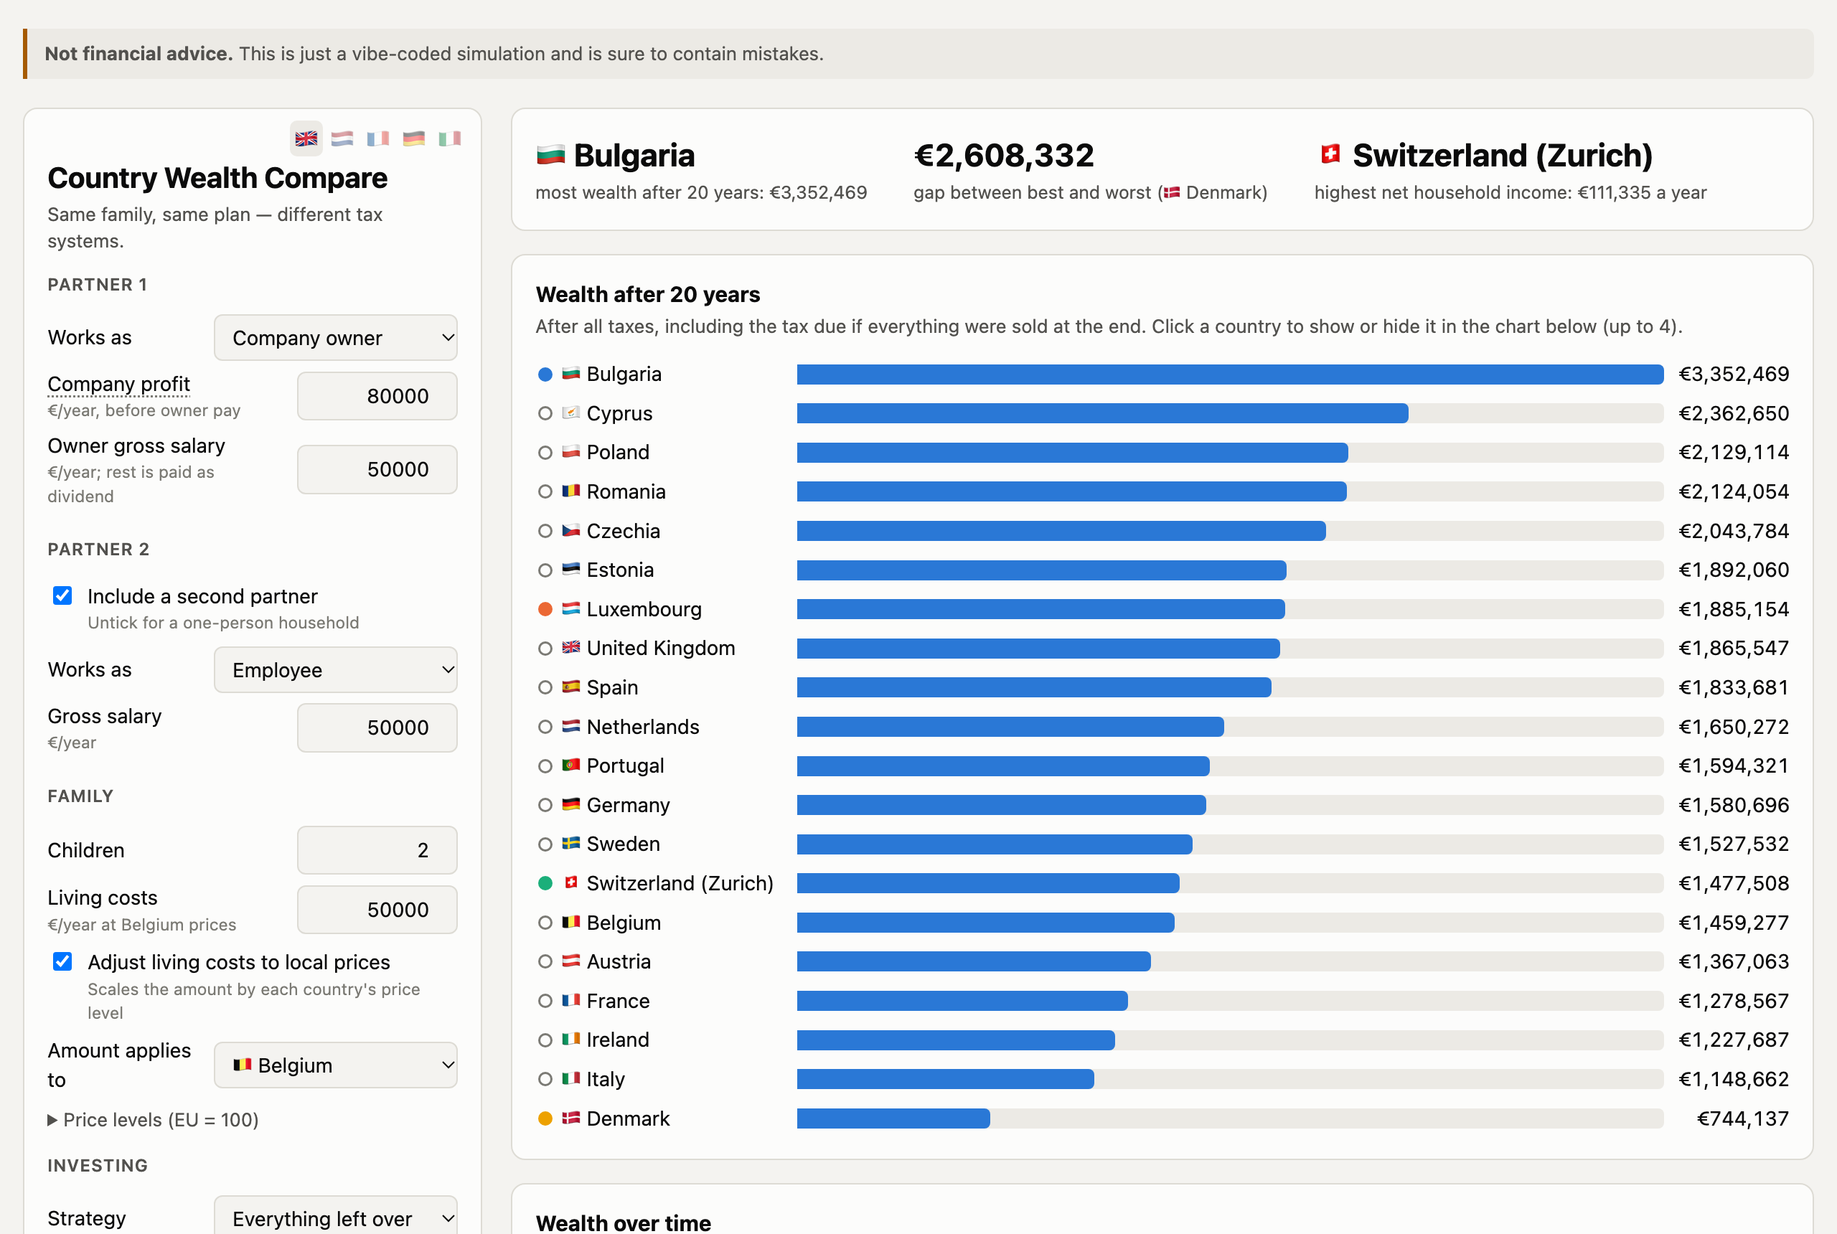
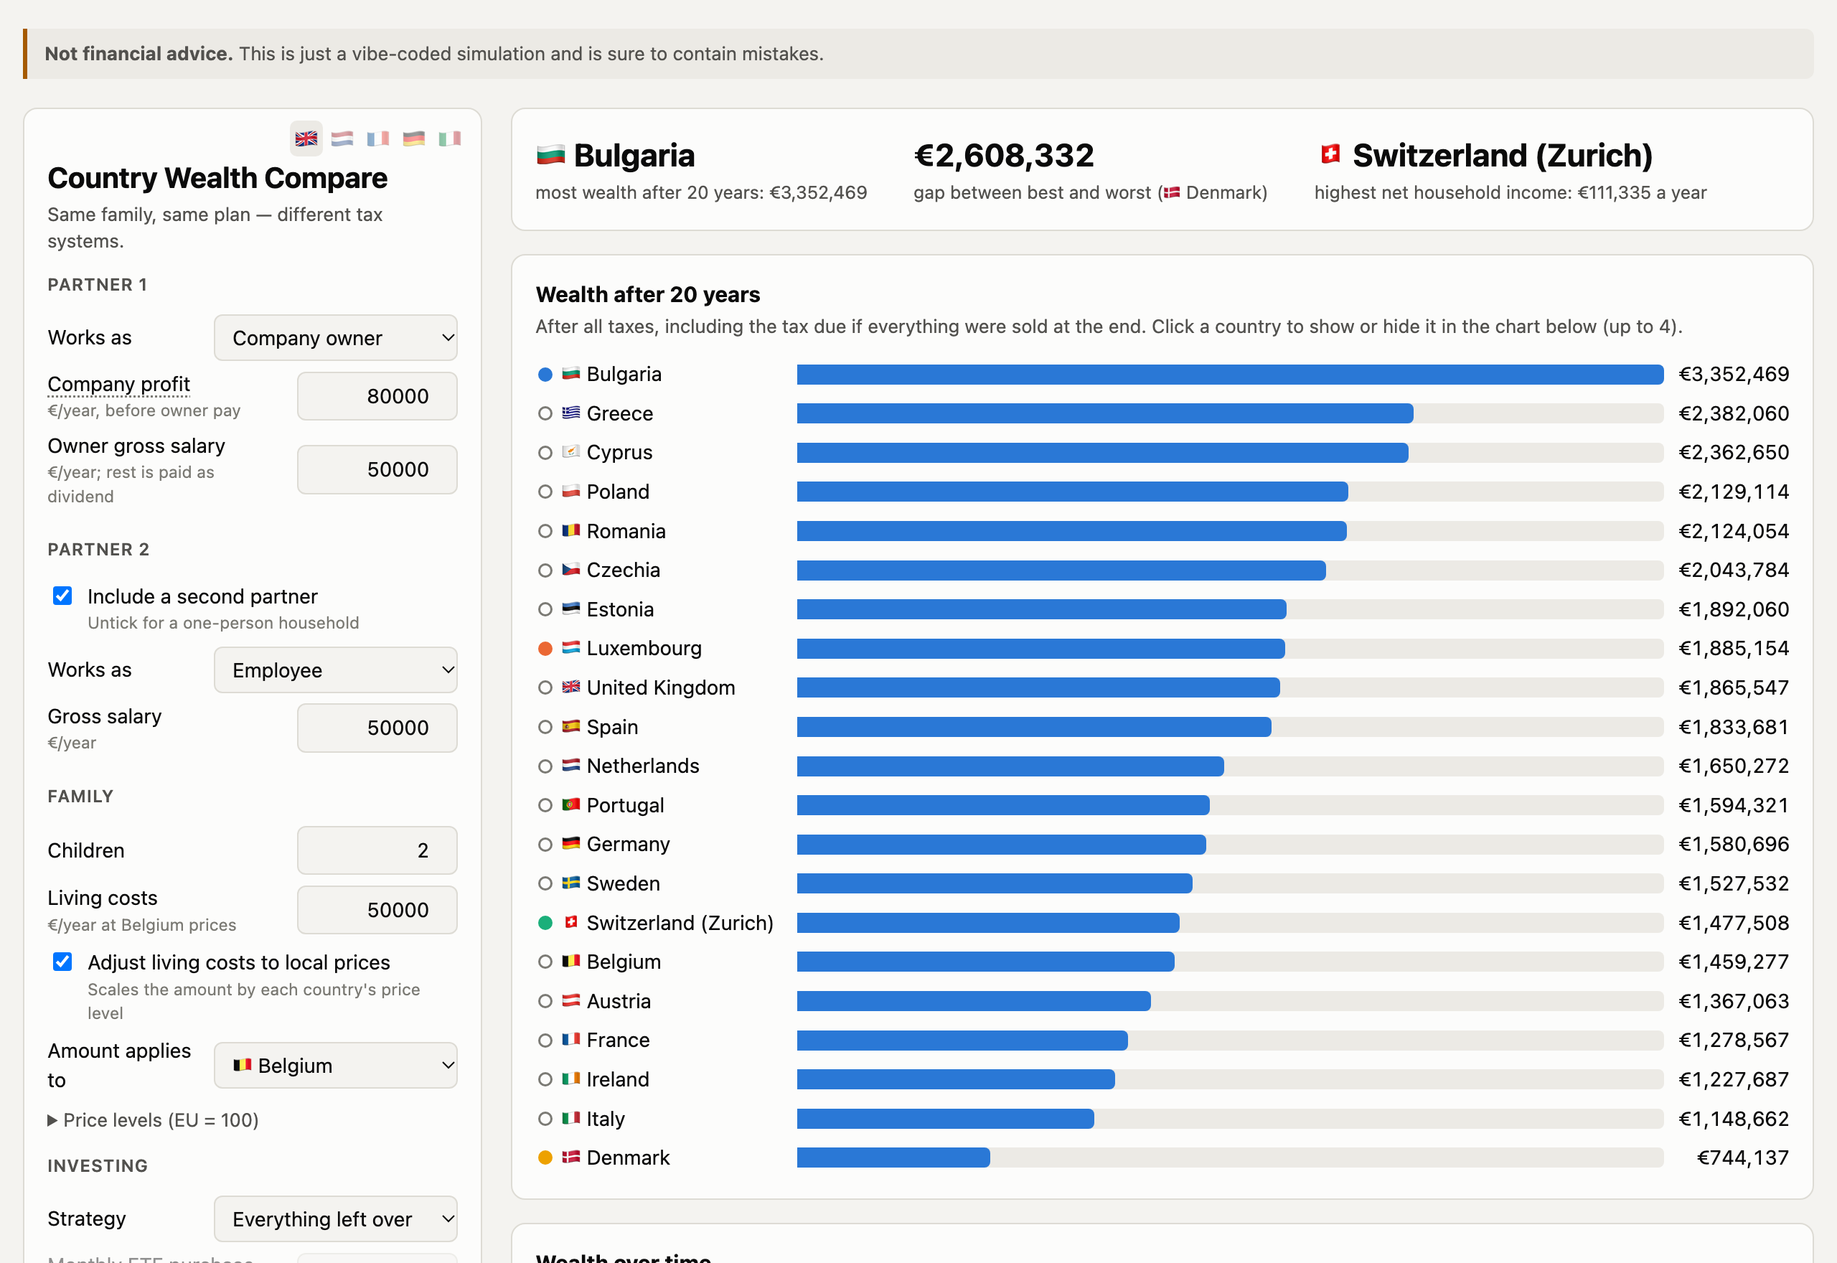
Add Greece

diff --git a/country-compare.html b/country-compare.html
@@ -685,6 +685,13 @@
       'Dividenden tegen 16 % (vanaf 2026) plus een ziektebijdrage begrensd op 10 % van 24 minimumlonen.',
       'ETF: 3 % op meerwaarden voor beleggingen die langer dan een jaar worden aangehouden via een Roemeense broker (6 % bij minder dan een jaar, niet gemodelleerd), plus de begrensde ziektebijdrage als dividenden het plafond nog niet hebben bereikt. Via een buitenlandse broker is het tarief 16 %.',
     ],
+    GR: [
+      "Vennootschapsbelasting 22 %, dividenden belast aan 5 %.",
+      "De eigenaar wordt betaald als zaakvoerder van de eigen vennootschap en belast als werknemer. Verzekerd in het stelsel voor zelfstandigen in de laagste bijdragecategorie: ongeveer € 3.000 per jaar, ongeacht het loon. Een hogere categorie kost meer en bouwt een hoger pensioen op.",
+      "Inkomstenbelasting volgens de schaal van 2026 (9 % tot 44 %), met lagere tarieven op de eerste € 30.000 en een grotere belastingvermindering per kind ten laste. Er wordt aangenomen dat beide ouders de kindtarieven krijgen. De kindtarieven en de bedragen van de vermindering konden niet worden nagekeken in de wettekst.",
+      "De kinderbijslag is inkomensafhankelijk en wordt bij deze inkomens op nul gezet.",
+      "ETF: meerwaarden op UCITS-fondsen gevestigd in de EU zijn belastingvrij voor particulieren. Fondsen van buiten de EU/EER worden belast aan 15 %.",
+    ],
   } };
 })(typeof window !== 'undefined' ? window : globalThis);
 
@@ -989,7 +996,14 @@
       "Salaires : 35 % de cotisations salariales (pension + santé), 10 % d'impôt sur le revenu, 2,25 % de cotisation patronale.",
       "Dividendes à 16 % (à partir de 2026) plus une cotisation santé plafonnée à 10 % de 24 salaires minimums.",
       "ETF : 3 % sur les plus-values pour les titres détenus plus d'un an via un courtier roumain (6 % en dessous d'un an, non modélisé), plus la cotisation santé plafonnée si les dividendes n'ont pas déjà atteint le plafond. Via un courtier étranger, le taux est de 16 %."
-    ]
+    ],
+    GR: [
+      "Impôt des sociétés de 22 %, dividendes imposés à 5 %.",
+      "Le dirigeant est rémunéré comme gérant de sa propre société et imposé comme un salarié. Il est assuré au régime des indépendants dans la catégorie de cotisation la plus basse : environ 3 000 € par an, quel que soit le salaire. Une catégorie plus élevée coûte plus cher et constitue une pension plus importante.",
+      "Impôt sur le revenu selon le barème 2026 (9 % à 44 %), avec des taux réduits sur les premiers 30 000 € et une réduction d'impôt plus élevée par enfant à charge. On suppose que les deux parents bénéficient des taux pour enfants. Les taux pour enfants et les montants de la réduction n'ont pas pu être vérifiés dans le texte de loi.",
+      "Les allocations familiales dépendent des revenus et sont supposées nulles à ces niveaux de revenus.",
+      "ETF : les plus-values sur les fonds UCITS domiciliés dans l'UE sont exonérées pour les particuliers. Les fonds hors UE/EEE sont imposés à 15 %.",
+    ],
   } };
 })(typeof window !== 'undefined' ? window : globalThis);
 
@@ -1294,7 +1308,14 @@
       'Gehälter: 35 % Arbeitnehmerbeiträge (Rente + Gesundheit), 10 % Einkommensteuer, 2,25 % Arbeitgeberbeitrag.',
       'Dividenden zu 16 % (ab 2026) plus ein Krankenversicherungsbeitrag, gedeckelt bei 10 % von 24 Mindestlöhnen.',
       'ETF: 3 % auf Gewinne bei einer Haltedauer von über einem Jahr über einen rumänischen Broker (6 % unter einem Jahr, nicht modelliert), dazu der gedeckelte Krankenversicherungsbeitrag, falls Dividenden die Obergrenze nicht schon erreicht haben. Über einen ausländischen Broker beträgt der Satz 16 %.'
-    ]
+    ],
+    GR: [
+      "Körperschaftsteuer 22 %, Dividenden werden mit 5 % besteuert.",
+      "Der Inhaber wird als Geschäftsführer der eigenen Gesellschaft bezahlt und wie ein Arbeitnehmer besteuert. Versichert im System für Selbständige in der niedrigsten Beitragsklasse: rund 3.000 € pro Jahr, unabhängig vom Gehalt. Eine höhere Klasse kostet mehr und führt zu einer höheren Rente.",
+      "Einkommensteuer nach dem Tarif 2026 (9 % bis 44 %), mit niedrigeren Sätzen auf die ersten 30.000 € und einer höheren Steuerermäßigung je unterhaltsberechtigtem Kind. Es wird angenommen, dass beide Elternteile die Kindersätze erhalten. Die Kindersätze und die Beträge der Ermäßigung konnten nicht am Gesetzestext überprüft werden.",
+      "Das Kindergeld ist einkommensabhängig und wird bei diesen Einkommen mit null angesetzt.",
+      "ETF: Gewinne aus in der EU aufgelegten UCITS-Fonds sind für Privatanleger steuerfrei. Fonds von außerhalb der EU/des EWR werden mit 15 % besteuert.",
+    ],
   } };
 })(typeof window !== 'undefined' ? window : globalThis);
 
@@ -1599,7 +1620,14 @@
       "Stipendi: 35 % di contributi a carico del lavoratore (pensione + sanità), 10 % di imposta sul reddito, 2,25 % di contributo a carico del datore di lavoro.",
       "Dividendi al 16 % (dal 2026) più un contributo sanitario con tetto pari al 10 % di 24 salari minimi.",
       "ETF: 3 % sulle plusvalenze per i titoli detenuti da più di un anno tramite un broker rumeno (6 % sotto l'anno, non considerato nel modello), più il contributo sanitario con tetto se i dividendi non hanno già raggiunto il tetto. Tramite un broker estero l'aliquota è del 16 %."
-    ]
+    ],
+    GR: [
+      "Imposta sulle società al 22 %, dividendi tassati al 5 %.",
+      "Il titolare è pagato come amministratore della propria società e tassato come lavoratore dipendente. È assicurato nel regime dei lavoratori autonomi nella categoria contributiva più bassa: circa 3.000 € l'anno, qualunque sia lo stipendio. Una categoria più alta costa di più e matura una pensione maggiore.",
+      "Imposta sul reddito secondo la scala 2026 (dal 9 % al 44 %), con aliquote più basse sui primi 30.000 € e una riduzione d'imposta più alta per ogni figlio a carico. Si assume che entrambi i genitori abbiano diritto alle aliquote per i figli. Le aliquote per i figli e gli importi della riduzione non sono stati verificati sul testo di legge.",
+      "L'assegno per i figli dipende dal reddito e si assume pari a zero a questi livelli di reddito.",
+      "ETF: le plusvalenze sui fondi UCITS domiciliati nell'UE sono esenti per le persone fisiche. I fondi di paesi extra UE/SEE sono tassati al 15 %.",
+    ],
   } };
 })(typeof window !== 'undefined' ? window : globalThis);
 
@@ -2347,6 +2375,37 @@
     });
   }
 
+  /* ───────────── Greece ───────────── */
+  {
+    const CAP = 7761.94 * 14; // monthly ceiling, 14 salaries a year
+    const OWNER_EFKA = 250.77 * 12; // self-employed scheme, lowest category
+    // 2026 scale (law 5246/2025); the rates on the first €30k fall with the number of dependent children
+    const LOW = [[.09, .20, .26], [.09, .18, .24], [.09, .16, .22], [.09, .09, .20], [0, 0, .18]];
+    const scale = k => { const r = LOW[Math.min(k, 4)]; return [[10000, r[0]], [20000, r[1]], [30000, r[2]], [40000, .34], [60000, .39], [INF, .44]]; };
+    // tax reduction for employment income, shrinking by €20 per €1,000 of income above €12,000 (not with 5+ children)
+    const credit = (b, k) => pos([777, 900, 1120, 1340, 1580][Math.min(k, 4)] + 220 * pos(k - 4) - (k >= 5 ? 0 : .02 * pos(b - 12000)));
+    const person = (g, ee, k) => { const b = pos(g - ee); return g > 0 ? pos(BR(b, scale(k)) - credit(b, k)) : 0; };
+    C.push({
+      code: 'GR', name: 'Greece', flag: '🇬🇷',
+      corpTax: p => .22 * p,
+      employeeSS: g => ({ ee: .1337 * Math.min(g, CAP), er: .2179 * Math.min(g, CAP) }),
+      ownerSS: () => ({ ee: OWNER_EFKA, er: 0 }),
+      personalTax: h => ({
+        incomeTax: person(h.salaryA, h.eeA, h.kids) + person(h.salaryB, h.eeB, h.kids),
+        dividendTax: .05 * (h.divA + h.divB),
+        childBenefit: 0,
+      }),
+      invest: { cgt: null },
+      notes: [
+        'Corporate tax 22 %, dividends taxed at 5 %.',
+        'Owner paid as the manager of their own company, taxed as employment income. Insured in the self-employed scheme at the lowest contribution category, about €3,000 a year whatever the salary; a higher category costs more and builds a larger pension.',
+        'Income tax uses the 2026 scale (9 % to 44 %), with lower rates on the first €30k and a larger tax reduction for each dependent child. Both parents are assumed to get the child rates. The child rates and reduction amounts could not be confirmed against the law text.',
+        'Child benefit is means-tested and assumed to be zero at these incomes.',
+        'ETF: gains on EU-domiciled UCITS funds are tax-free for individuals. Funds from outside the EU/EEA are taxed at 15 %.',
+      ],
+    });
+  }
+
   /* ───────────── Romania ───────────── */
   {
     const MW = 4050; // gross minimum monthly wage, RON
@@ -2402,7 +2461,7 @@
 
   // Eurostat price level index 2024, household final consumption expenditure (EU27 = 100). National averages.
   const PLI = { BE: 116.5, NL: 116.0, DE: 108.6, FR: 111.2, LU: 132.8, ES: 90.9, PT: 87.0, IT: 97.5, IE: 138.1, UK: 124.7,
-    CH: 174.4, AT: 112.8, DK: 143.1, SE: 115.1, PL: 72.2, CZ: 88.4, EE: 100.0, BG: 59.7, CY: 92.8, RO: 63.7 };
+    CH: 174.4, AT: 112.8, DK: 143.1, SE: 115.1, PL: 72.2, CZ: 88.4, EE: 100.0, BG: 59.7, CY: 92.8, RO: 63.7, GR: 86.0 };
   for (const c of C) c.priceLevel = PLI[c.code];
 
   const COUNTRIES = C.map(localize);

diff --git a/taxdata.js b/taxdata.js
@@ -740,6 +740,37 @@
     });
   }
 
+  /* ───────────── Greece ───────────── */
+  {
+    const CAP = 7761.94 * 14; // monthly ceiling, 14 salaries a year
+    const OWNER_EFKA = 250.77 * 12; // self-employed scheme, lowest category
+    // 2026 scale (law 5246/2025); the rates on the first €30k fall with the number of dependent children
+    const LOW = [[.09, .20, .26], [.09, .18, .24], [.09, .16, .22], [.09, .09, .20], [0, 0, .18]];
+    const scale = k => { const r = LOW[Math.min(k, 4)]; return [[10000, r[0]], [20000, r[1]], [30000, r[2]], [40000, .34], [60000, .39], [INF, .44]]; };
+    // tax reduction for employment income, shrinking by €20 per €1,000 of income above €12,000 (not with 5+ children)
+    const credit = (b, k) => pos([777, 900, 1120, 1340, 1580][Math.min(k, 4)] + 220 * pos(k - 4) - (k >= 5 ? 0 : .02 * pos(b - 12000)));
+    const person = (g, ee, k) => { const b = pos(g - ee); return g > 0 ? pos(BR(b, scale(k)) - credit(b, k)) : 0; };
+    C.push({
+      code: 'GR', name: 'Greece', flag: '🇬🇷',
+      corpTax: p => .22 * p,
+      employeeSS: g => ({ ee: .1337 * Math.min(g, CAP), er: .2179 * Math.min(g, CAP) }),
+      ownerSS: () => ({ ee: OWNER_EFKA, er: 0 }),
+      personalTax: h => ({
+        incomeTax: person(h.salaryA, h.eeA, h.kids) + person(h.salaryB, h.eeB, h.kids),
+        dividendTax: .05 * (h.divA + h.divB),
+        childBenefit: 0,
+      }),
+      invest: { cgt: null },
+      notes: [
+        'Corporate tax 22 %, dividends taxed at 5 %.',
+        'Owner paid as the manager of their own company, taxed as employment income. Insured in the self-employed scheme at the lowest contribution category, about €3,000 a year whatever the salary; a higher category costs more and builds a larger pension.',
+        'Income tax uses the 2026 scale (9 % to 44 %), with lower rates on the first €30k and a larger tax reduction for each dependent child. Both parents are assumed to get the child rates. The child rates and reduction amounts could not be confirmed against the law text.',
+        'Child benefit is means-tested and assumed to be zero at these incomes.',
+        'ETF: gains on EU-domiciled UCITS funds are tax-free for individuals. Funds from outside the EU/EEA are taxed at 15 %.',
+      ],
+    });
+  }
+
   /* ───────────── Romania ───────────── */
   {
     const MW = 4050; // gross minimum monthly wage, RON
@@ -795,7 +826,7 @@
 
   // Eurostat price level index 2024, household final consumption expenditure (EU27 = 100). National averages.
   const PLI = { BE: 116.5, NL: 116.0, DE: 108.6, FR: 111.2, LU: 132.8, ES: 90.9, PT: 87.0, IT: 97.5, IE: 138.1, UK: 124.7,
-    CH: 174.4, AT: 112.8, DK: 143.1, SE: 115.1, PL: 72.2, CZ: 88.4, EE: 100.0, BG: 59.7, CY: 92.8, RO: 63.7 };
+    CH: 174.4, AT: 112.8, DK: 143.1, SE: 115.1, PL: 72.2, CZ: 88.4, EE: 100.0, BG: 59.7, CY: 92.8, RO: 63.7, GR: 86.0 };
   for (const c of C) c.priceLevel = PLI[c.code];
 
   const COUNTRIES = C.map(localize);

diff --git a/lang/fr.js b/lang/fr.js
@@ -297,6 +297,13 @@
       "Salaires : 35 % de cotisations salariales (pension + santé), 10 % d'impôt sur le revenu, 2,25 % de cotisation patronale.",
       "Dividendes à 16 % (à partir de 2026) plus une cotisation santé plafonnée à 10 % de 24 salaires minimums.",
       "ETF : 3 % sur les plus-values pour les titres détenus plus d'un an via un courtier roumain (6 % en dessous d'un an, non modélisé), plus la cotisation santé plafonnée si les dividendes n'ont pas déjà atteint le plafond. Via un courtier étranger, le taux est de 16 %."
-    ]
+    ],
+    GR: [
+      "Impôt des sociétés de 22 %, dividendes imposés à 5 %.",
+      "Le dirigeant est rémunéré comme gérant de sa propre société et imposé comme un salarié. Il est assuré au régime des indépendants dans la catégorie de cotisation la plus basse : environ 3 000 € par an, quel que soit le salaire. Une catégorie plus élevée coûte plus cher et constitue une pension plus importante.",
+      "Impôt sur le revenu selon le barème 2026 (9 % à 44 %), avec des taux réduits sur les premiers 30 000 € et une réduction d'impôt plus élevée par enfant à charge. On suppose que les deux parents bénéficient des taux pour enfants. Les taux pour enfants et les montants de la réduction n'ont pas pu être vérifiés dans le texte de loi.",
+      "Les allocations familiales dépendent des revenus et sont supposées nulles à ces niveaux de revenus.",
+      "ETF : les plus-values sur les fonds UCITS domiciliés dans l'UE sont exonérées pour les particuliers. Les fonds hors UE/EEE sont imposés à 15 %.",
+    ],
   } };
 })(typeof window !== 'undefined' ? window : globalThis);

diff --git a/lang/it.js b/lang/it.js
@@ -297,6 +297,13 @@
       "Stipendi: 35 % di contributi a carico del lavoratore (pensione + sanità), 10 % di imposta sul reddito, 2,25 % di contributo a carico del datore di lavoro.",
       "Dividendi al 16 % (dal 2026) più un contributo sanitario con tetto pari al 10 % di 24 salari minimi.",
       "ETF: 3 % sulle plusvalenze per i titoli detenuti da più di un anno tramite un broker rumeno (6 % sotto l'anno, non considerato nel modello), più il contributo sanitario con tetto se i dividendi non hanno già raggiunto il tetto. Tramite un broker estero l'aliquota è del 16 %."
-    ]
+    ],
+    GR: [
+      "Imposta sulle società al 22 %, dividendi tassati al 5 %.",
+      "Il titolare è pagato come amministratore della propria società e tassato come lavoratore dipendente. È assicurato nel regime dei lavoratori autonomi nella categoria contributiva più bassa: circa 3.000 € l'anno, qualunque sia lo stipendio. Una categoria più alta costa di più e matura una pensione maggiore.",
+      "Imposta sul reddito secondo la scala 2026 (dal 9 % al 44 %), con aliquote più basse sui primi 30.000 € e una riduzione d'imposta più alta per ogni figlio a carico. Si assume che entrambi i genitori abbiano diritto alle aliquote per i figli. Le aliquote per i figli e gli importi della riduzione non sono stati verificati sul testo di legge.",
+      "L'assegno per i figli dipende dal reddito e si assume pari a zero a questi livelli di reddito.",
+      "ETF: le plusvalenze sui fondi UCITS domiciliati nell'UE sono esenti per le persone fisiche. I fondi di paesi extra UE/SEE sono tassati al 15 %.",
+    ],
   } };
 })(typeof window !== 'undefined' ? window : globalThis);

diff --git a/lang/de.js b/lang/de.js
@@ -297,6 +297,13 @@
       'Gehälter: 35 % Arbeitnehmerbeiträge (Rente + Gesundheit), 10 % Einkommensteuer, 2,25 % Arbeitgeberbeitrag.',
       'Dividenden zu 16 % (ab 2026) plus ein Krankenversicherungsbeitrag, gedeckelt bei 10 % von 24 Mindestlöhnen.',
       'ETF: 3 % auf Gewinne bei einer Haltedauer von über einem Jahr über einen rumänischen Broker (6 % unter einem Jahr, nicht modelliert), dazu der gedeckelte Krankenversicherungsbeitrag, falls Dividenden die Obergrenze nicht schon erreicht haben. Über einen ausländischen Broker beträgt der Satz 16 %.'
-    ]
+    ],
+    GR: [
+      "Körperschaftsteuer 22 %, Dividenden werden mit 5 % besteuert.",
+      "Der Inhaber wird als Geschäftsführer der eigenen Gesellschaft bezahlt und wie ein Arbeitnehmer besteuert. Versichert im System für Selbständige in der niedrigsten Beitragsklasse: rund 3.000 € pro Jahr, unabhängig vom Gehalt. Eine höhere Klasse kostet mehr und führt zu einer höheren Rente.",
+      "Einkommensteuer nach dem Tarif 2026 (9 % bis 44 %), mit niedrigeren Sätzen auf die ersten 30.000 € und einer höheren Steuerermäßigung je unterhaltsberechtigtem Kind. Es wird angenommen, dass beide Elternteile die Kindersätze erhalten. Die Kindersätze und die Beträge der Ermäßigung konnten nicht am Gesetzestext überprüft werden.",
+      "Das Kindergeld ist einkommensabhängig und wird bei diesen Einkommen mit null angesetzt.",
+      "ETF: Gewinne aus in der EU aufgelegten UCITS-Fonds sind für Privatanleger steuerfrei. Fonds von außerhalb der EU/des EWR werden mit 15 % besteuert.",
+    ],
   } };
 })(typeof window !== 'undefined' ? window : globalThis);

diff --git a/lang/nl.js b/lang/nl.js
@@ -298,5 +298,12 @@
       'Dividenden tegen 16 % (vanaf 2026) plus een ziektebijdrage begrensd op 10 % van 24 minimumlonen.',
       'ETF: 3 % op meerwaarden voor beleggingen die langer dan een jaar worden aangehouden via een Roemeense broker (6 % bij minder dan een jaar, niet gemodelleerd), plus de begrensde ziektebijdrage als dividenden het plafond nog niet hebben bereikt. Via een buitenlandse broker is het tarief 16 %.',
     ],
+    GR: [
+      "Vennootschapsbelasting 22 %, dividenden belast aan 5 %.",
+      "De eigenaar wordt betaald als zaakvoerder van de eigen vennootschap en belast als werknemer. Verzekerd in het stelsel voor zelfstandigen in de laagste bijdragecategorie: ongeveer € 3.000 per jaar, ongeacht het loon. Een hogere categorie kost meer en bouwt een hoger pensioen op.",
+      "Inkomstenbelasting volgens de schaal van 2026 (9 % tot 44 %), met lagere tarieven op de eerste € 30.000 en een grotere belastingvermindering per kind ten laste. Er wordt aangenomen dat beide ouders de kindtarieven krijgen. De kindtarieven en de bedragen van de vermindering konden niet worden nagekeken in de wettekst.",
+      "De kinderbijslag is inkomensafhankelijk en wordt bij deze inkomens op nul gezet.",
+      "ETF: meerwaarden op UCITS-fondsen gevestigd in de EU zijn belastingvrij voor particulieren. Fondsen van buiten de EU/EER worden belast aan 15 %.",
+    ],
   } };
 })(typeof window !== 'undefined' ? window : globalThis);

diff --git a/README.md b/README.md
@@ -1,6 +1,6 @@
 # Country Wealth Compare
 
-Where in Europe would your family build the most wealth? This tool takes one household, with the same income and the same savings plan, and shows what is left after tax in 20 European countries, today and after years of investing.
+Where in Europe would your family build the most wealth? This tool takes one household, with the same income and the same savings plan, and shows what is left after tax in 21 European countries, today and after years of investing.
 
 **[Open the tool](https://fbl.github.io/country-compare/)** — nothing to install, and your numbers never leave your browser.
 
